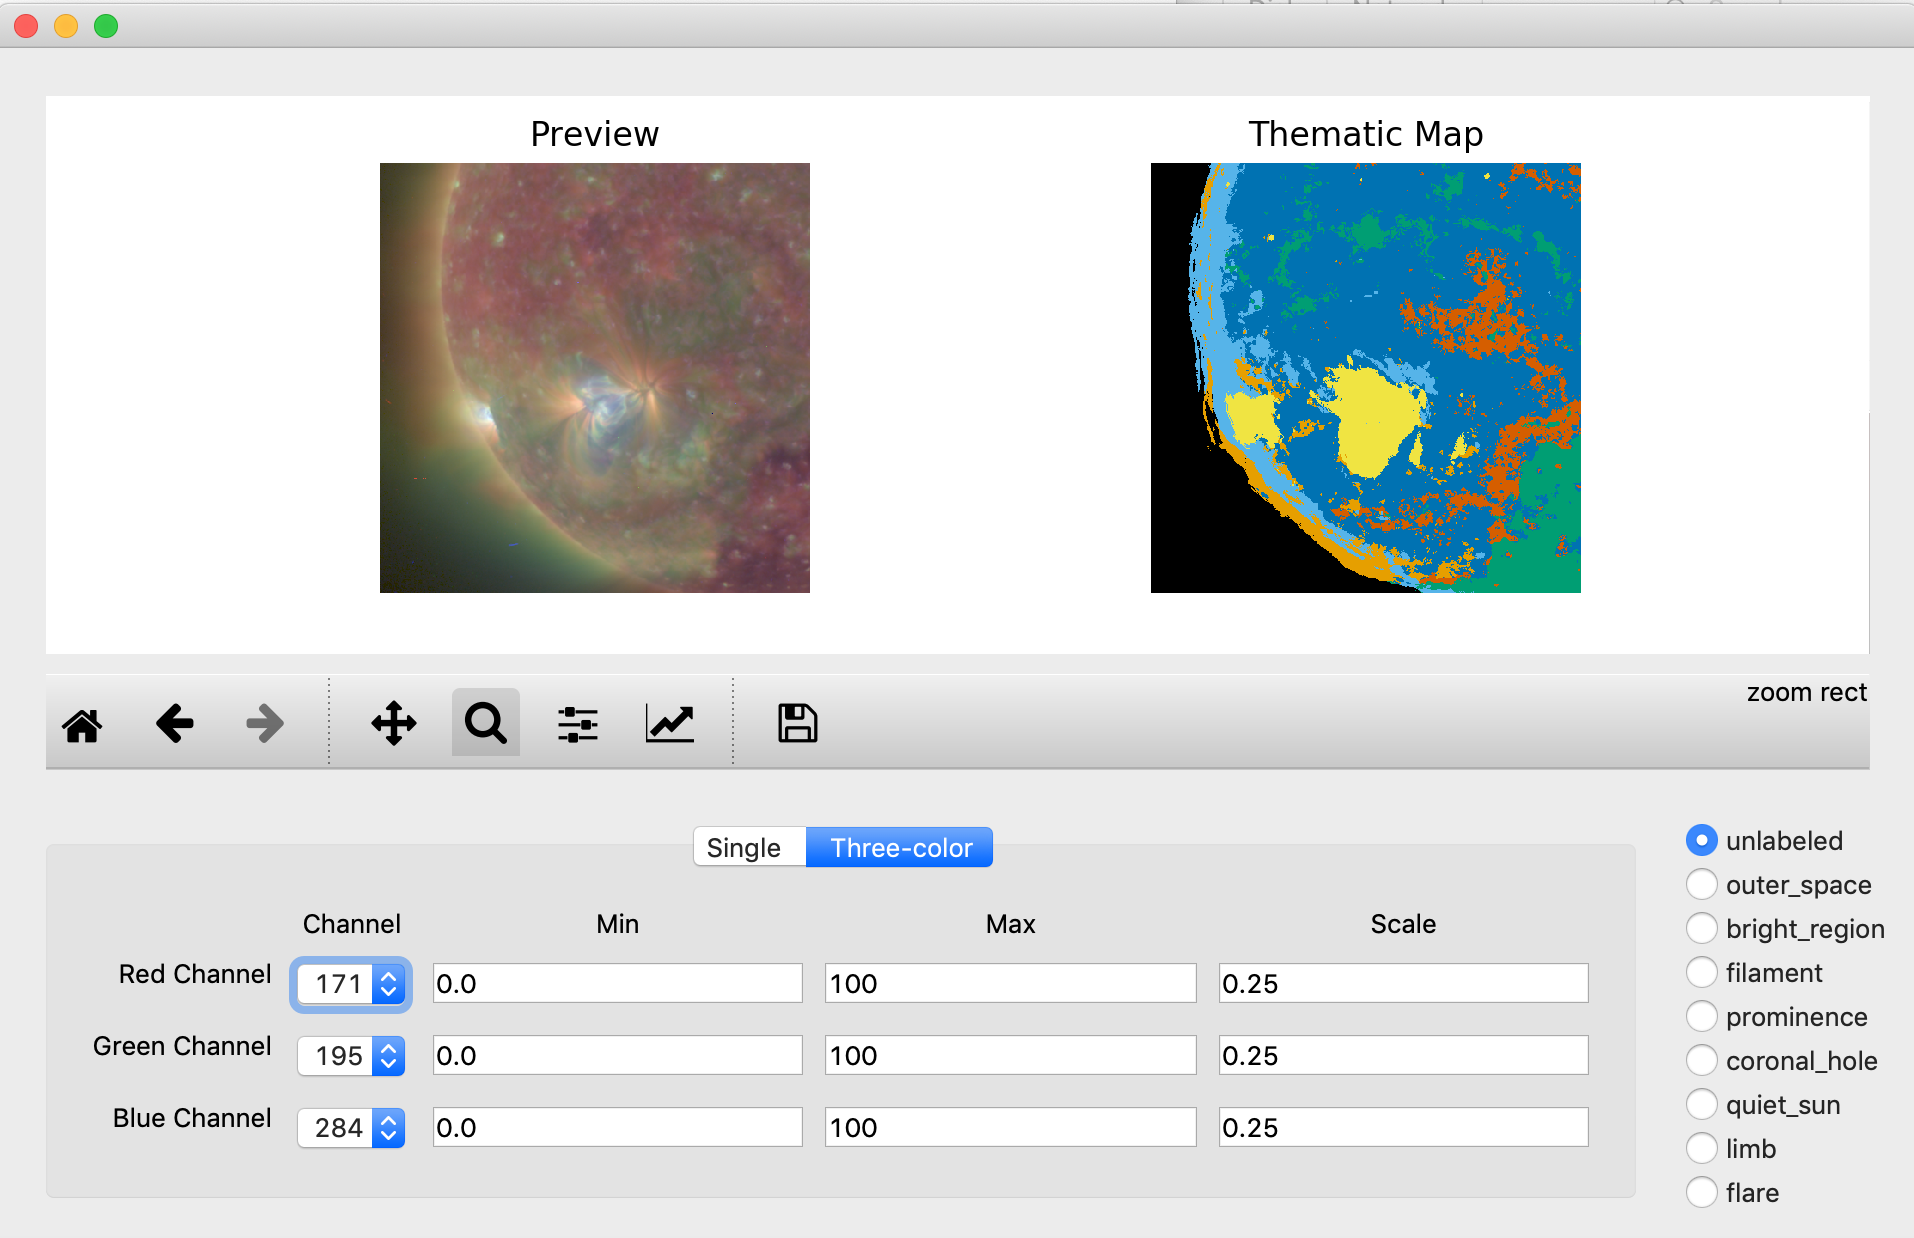
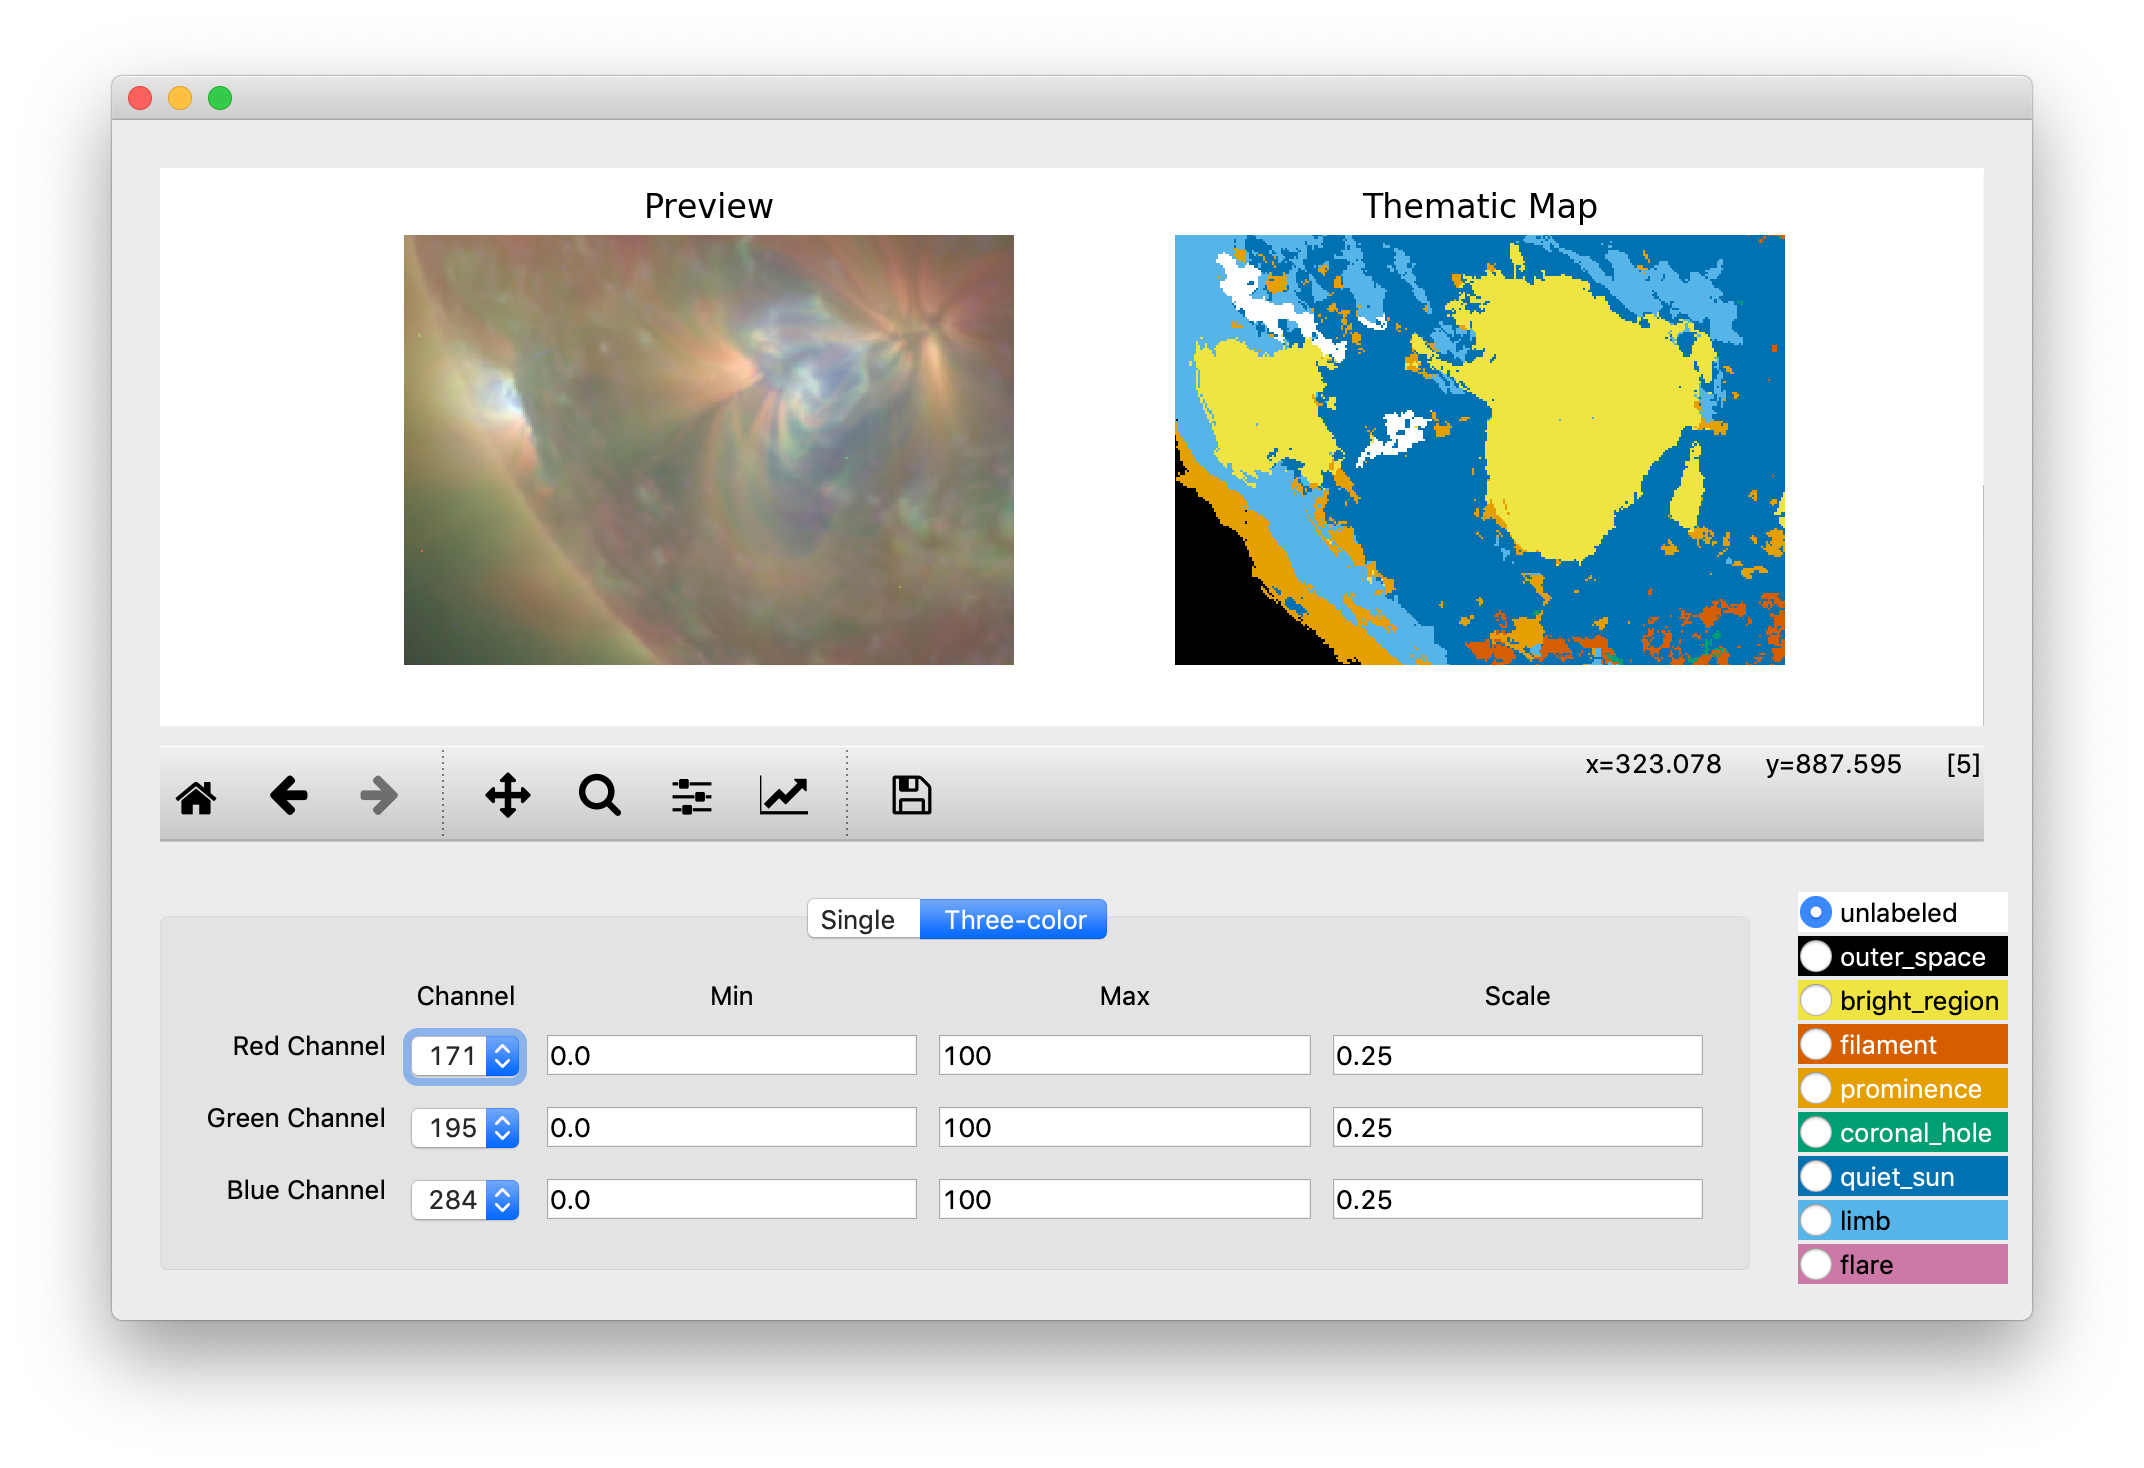
version update

diff --git a/CHANGELOG.md b/CHANGELOG.md
@@ -5,6 +5,8 @@ All notable changes to this project will be documented in this file.
 The format is based on [Keep a Changelog](https://keepachangelog.com/en/1.0.0/), 
 
 ## Upcoming
+
+## [0.2.6]
 ### Added
 * Warning box if composite data does not exist
 * Scaling for single color images
@@ -24,5 +26,6 @@ The format is based on [Keep a Changelog](https://keepachangelog.com/en/1.0.0/),
 ## [0.2.4]
 First stable release. Not all features added. 
 
+[0.2.6]: https://github.com/jmbhughes/solarannotator/releases/tag/v0.2.6
 [0.2.5]: https://github.com/jmbhughes/solarannotator/releases/tag/v0.2.5 
 [0.2.4]: https://github.com/jmbhughes/solarannotator/releases/tag/v0.2.4

diff --git a/README.md b/README.md
@@ -34,5 +34,5 @@ This tool is still under development. There are many features coming.
 - [ ] Overlay HEK and other pre-determined annotations
 - [ ] Multiple normalization options
 - [x] Differentiate save and save as
-- [ ] Add color legend to radio buttons
+- [x] Add color legend to radio buttons
 - [ ] Robustify the thematic map io for better metadata passing
